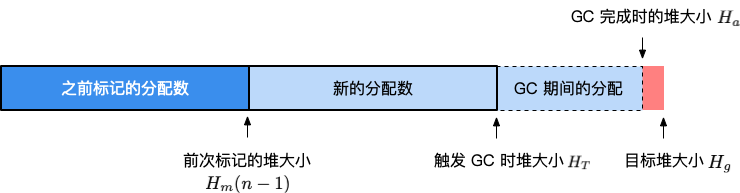
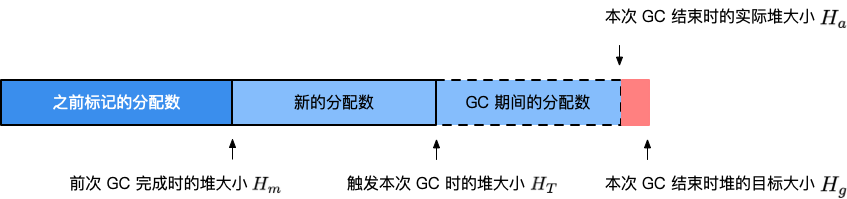
book: gc pacing

diff --git a/book/zh-cn/part2runtime/ch08GC/pacing.md b/book/zh-cn/part2runtime/ch08GC/pacing.md
@@ -15,43 +15,131 @@ func SetMaxStack(bytes int) int
 
 GOGC
 
-## 调步算法的设计
+## 调步算法及其数学模型
 
 目前触发 GC 的条件使用的是从 Go 1.5 时提出的**调步（Pacing）算法**，
-调步算法是优化并发执行时 GC 的步调，换句话说就是解决什么时候应该触发下一次 GC 的这个问题。现在我们从两个不同的视角来对这个问题进行建模。
+调步算法是优化并发执行时 GC 的步调，换句话说就是解决什么时候应该触发下一次 GC 
+的这个问题。
 
-从用户的角度而言，我们希望给定一个给定的增长率，使堆在给定增长率的情况下触发下一次 GC。这时设 $h_g$ 为**目标增长率**（即 GOGC / 100），则完成 n 个 GC 周期后标记对象的总大小为：
-
-$$
-H_g(n) = (1+h_g) \times H_m (n-1)
-$$
-
-这时的 $H_g(n)$ 是作为用户的我们所希望的堆的增长结果，GC 必须将堆的大小限制在此结果以内。
-
-从 GC 的角度而言，我们需要在观察到给定数量的新的内存分配后，开始执行 GC，设触发时刻的堆大小为 $H_T$，在执行 GC 的期间由于用户代码并发执行，同样会产生一定数量的内存分配，不妨设该次 GC 完成时堆的大小为 $H_a$。在不同的情况下，一个 GC 周期后得到的实际堆大小既可以大于也可以小于堆大小。但我们的优化还需要考虑这这个因素：
-
-- 我们应该尽可能的使得第 n 次 GC 周期的目标堆大小 $H_a(n) < H_g$ 从而避免不断增加的内存消耗。
-- 我们应该尽可能的避免第 n 次 GC 周期的目标堆大小 $H_a(n) - H_g$ 的指过大，从而产生过量的 CPU 消耗，进而导致应用的执行速度减慢。
-
-显然，如果我们没有并行 GC，即需要对用户代码执行 STW，则 GC 期间不会产生新的分配，问题将变得异常简单：当堆增长到 $H_g$ 时开始执行下一次 GC。
-但当需要 GC 并行的与用户代码执行时，我们则需要提前在堆大小为 $H_T$ 时候触发 GC，以得到最优的 GC 触发条件，则我们可以将合适触发 GC 这个问题转化为以下优化问题：
-
-**优化问题1**：寻找 $H_T$，使得 $\min |H_g - H_a (n)|$。
-
-而对于第二个因素而言，为了控制 GC 对 CPU 的使用率，并发阶段的 GC 应该尽可能接近 GOMAXPROCS 的 25%。这包括后台收集器中的时间和来自用户代码的富足，但不是写屏障的时间（仅因为技术会增加写屏障的开销）
-
-
-
-
-
-
-
-<!-- 调步算法包含四个部分：
+调步算法包含四个部分：
 
 1. GC 周期所需的扫描估计器
 2. 为用户代码根据堆分配到目标堆大小的时间估计扫描工作量的机制
 3. 用户代码为未充分利用 CPU 预算时进行后台扫描的调度程序
-4. GC 触发比率的控制器 -->
+4. GC 触发比率的控制器
+
+现在我们从两个不同的视角来对这个问题进行建模。
+
+从用户的角度而言，我们希望给定一个给定的增长率，使堆在给定增长率的情况下触发下一次 GC。
+这时设 $h_g$ 为**目标增长率**（即 GOGC / 100），则完成 n 个 GC 周期后标记对象的总大小为：
+
+$$
+H_g^{(n)} = (1+h_g) H_m^{(n-1)}
+$$
+
+![](../../../assets/gc-pacing.png)
+
+这时的 $H_g(n)$ 是作为用户的我们所希望的堆的增长结果，GC 必须将堆的大小限制在此结果以内。
+
+从 GC 的角度而言，我们需要在观察到给定数量的新的内存分配后，开始执行 GC，设触发时刻的堆大小为 $H_T$，
+在执行 GC 的期间由于用户代码并发执行，同样会产生一定数量的内存分配，不妨设该次 GC 完成时堆的大小为 $H_a$。
+在不同的情况下，一个 GC 周期后得到的实际堆大小既可以大于也可以小于堆大小。但我们的优化还需要考虑这这个因素：
+
+- 因素1: 我们应该尽可能的使得第 n 次 GC 周期的目标堆大小 $H_a^{(n)} < H_g^{(n)}$ 从而避免不断增加的内存消耗。
+- 因素2: 我们应该尽可能的避免第 n 次 GC 周期的目标堆大小 $H_a^{(n)} - H_g^{(n)}$ 的指过大，从而产生过量的 CPU 消耗，进而导致应用的执行速度减慢。
+
+显然，如果我们没有并行 GC，即需要对用户代码执行 STW，则 GC 期间不会产生新的分配，
+问题将变得异常简单：当堆增长到 $H_g^{(n)}$ 时开始执行下一阶段的 GC。
+但当需要 GC 并行的与用户代码执行时，我们则需要提前在堆大小为 $H_T$ 时候触发 GC，
+以得到最优的 GC 触发条件，则我们可以将合适触发 GC 这个问题转化为以下优化问题：
+
+**优化问题1**：寻找 $H_T^{(n)}$，使得 $\min |H_g^{(n)} - H_a^{(n)}| = \min |(1+h_g) H_m^{(n-1)} - H_a^{(n)}|$。
+
+而对于第二个因素而言，为了控制 GC 对 CPU 的使用率，并发阶段的 GC 应该尽可能接近 GOMAXPROCS 的 25%。这包括后台收集器中的时间和来自用户代码的富足，但不是写屏障的时间（仅因为计数会增加写屏障的开销）。如果设 $u_g$为目标 CPU 使用率（goal utilization），而 $u_a$为实际 CPU 使用率（actual utilization），于是我们有第二个优化问题：
+
+**优化问题2**：寻找 $H_T^{(n)}$，同时使得 $\min|u_g^{(n)} - u_a^{(n)}|$。
+
+TODO: 求解的具体数学建模过程
+
+综上所述，计算 $H_T$ 的公式（从 Go 1.10 时开始）为：
+  
+设第 n 次触发 GC 时，估计得到的堆增长率为 $h_T(n)$、运行过程中的实际堆增长率为 $h_a(n)$、标记辅助花费的时间 $t_A$，用户设置的增长率为 $\rho = \text{GOGC}/100$（ $\rho > 0$）则第 $n+1$ 次出触发 GC 时候，估计的堆增长率为：
+
+$$
+h_T(n+1) =
+	h_T(n) + 0.5\left\{\rho - h_T(n) - \frac{0.25 t_A}{0.3} \left[h_a(n) - h_T(n)\right] \right\}
+$$
+
+特别的，当 $n=0$ 时，标记辅助的时间 $t_A = 0$，且令 $h_t(0) = 0.875$，即第一次触发 GC 时：
+$$
+h_T(1) = \frac{1}{2}\left[ \frac{7}{8} + \rho \right]
+$$
+
+当 $h_T<0.6$时，将其调整为 $0.6$，当 $h_T > 0.95 \rho$ 时，将其设置为 $0.95 \rho$。
+
+默认情况下，$\rho = 1$（即 GOGC = 100），第一次出发 GC 时，$h_T(1) = 0.9375$，由于默认的最小堆大小为 4MB，因此当程序消耗 3.75MB 时，触发第一次 GC，可以写如下程序进行验证：
+
+```go
+package main
+
+import (
+	"os"
+	"runtime"
+	"runtime/trace"
+	"sync/atomic"
+)
+
+var stop uint64
+
+func gcfinished() *int {
+	p := 1
+	runtime.SetFinalizer(&p, func(_ *int) {
+		println("gc finished")
+		atomic.StoreUint64(&stop, 1)
+	})
+	return &p
+}
+
+func allocate() {
+	// 每次调用分配 0.25MB，第一次触发 GC 时，此函数被调用了 15 次
+	_ = make([]byte, int((1<<20)*0.25))
+}
+
+func main() {
+	f, _ := os.Create("trace.out")
+	defer f.Close()
+	trace.Start(f)
+	defer trace.Stop()
+	gcfinished()
+	for n := 1; atomic.LoadUint64(&stop) != 1; n++ {
+		println("#allocate: ", n)
+		allocate()
+	}
+	println("terminate")
+}
+```
+
+```
+go tool trace trace.out
+```
+
+![](../../../assets/gc-trigger.png)
+
+便能发现，根据 Heap 数值上升的阶梯状来看，当进行第 16 次阶梯式上升（内存分配）时，此时已经在堆中分配了 3948544 / (1025 * 1024) 约等于 3.76 MB，符合理论上计算的 15 * 0.25MB = 3.75MB，时，GC开始被触发。
+
+我们再来根据调试信息验证一下下一个GC触发时的堆大小：
+
+首先，从记录中可以看到，标记辅助所消耗的时间为 $t_A = 354017/(4*68182) \approx 1.3 $
+
+![](../../../assets/gc-trigger2.png)
+
+运行过程中的实际堆增长率为 $h_a(1) = (3948544-3936000)/3936000 = 0.0031$
+
+根据第一次 GC 得到的结果，估计得到的堆增长率为 $h_T(2) = h_T(1) + 0.5\left\{1 - h_T(1) - \frac{0.25 \times 1.3}{0.3} \left[0.0031 - h_T(1)\right] \right\} $$= 0.9375 + 0.5 (1 - 0.9375 - 1.083(0.0031 - 0.9375)) \approx 1.4747$，数值超过 0.95，因此最终的 $h_T(2) = 0.95$，则再次触发 GC 时的堆大小为 0.95*4MB = 3.8 MB。
+
+- 根据实际所记录的数据 4022528/(1024*1024)约等于 3.83MB，符合理论计算结果。
+
+![](../../../assets/gc-trigger3.png)
 
 ## 实现
 
@@ -277,6 +365,11 @@ func gcSetTriggerRatio(triggerRatio float64) {
 	gcPaceScavenger()
 }
 ```
+
+## 进一步阅读的参考文献
+
+- [Go 1.5 concurrent garbage collector pacing](https://docs.google.com/document/d/1wmjrocXIWTr1JxU-3EQBI6BK6KgtiFArkG47XK73xIQ/edit#)
+- [Separate soft and hard heap size goal](https://github.com/golang/proposal/blob/master/design/14951-soft-heap-limit.md)
 
 ## 许可
 

diff --git a/book/zh-cn/part1basic/ch04memory/barrier.md b/book/zh-cn/part1basic/ch04memory/barrier.md
@@ -28,6 +28,8 @@ title: "4.1 屏障技术"
 这样三种不变量所定义的回收过程其实是一个波面（wavefront）不断前进的过程，
 这个波面同时也是黑色对象和白色对象的边界，灰色对象就是这个波面。
 
+![](./../../../assets/gc-blueprint.png)
+
 对象的三种颜色可以这样来判断：
 
 ```go
